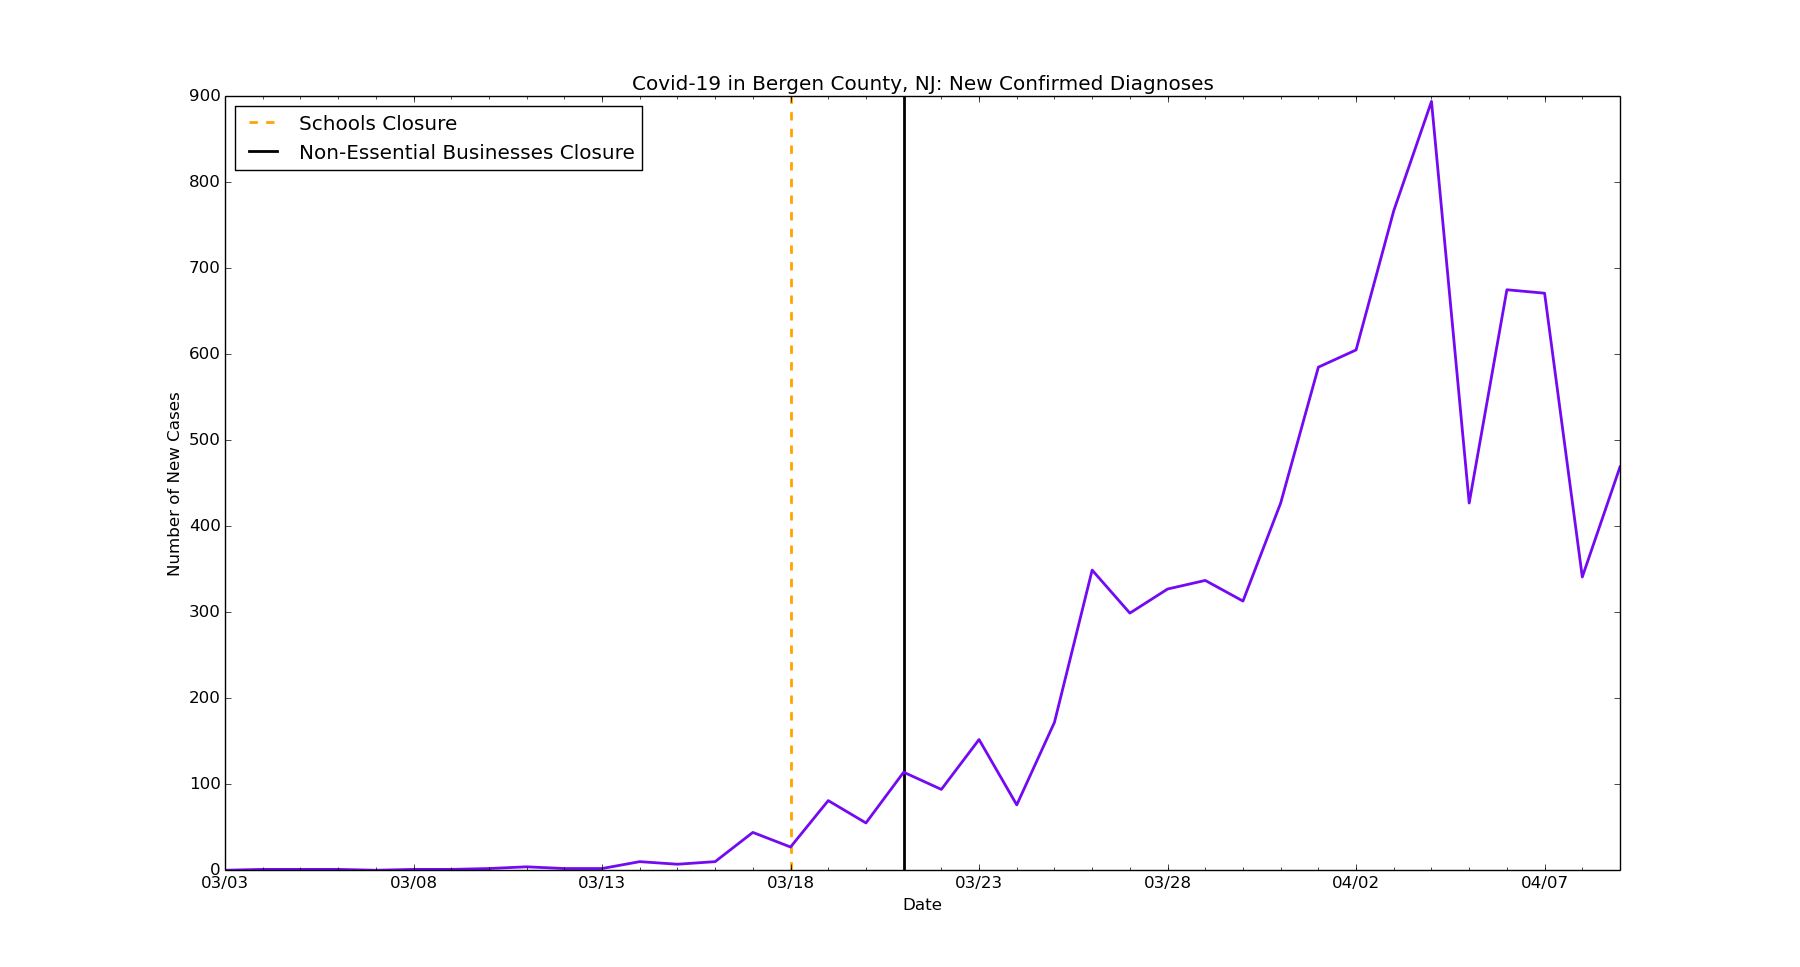
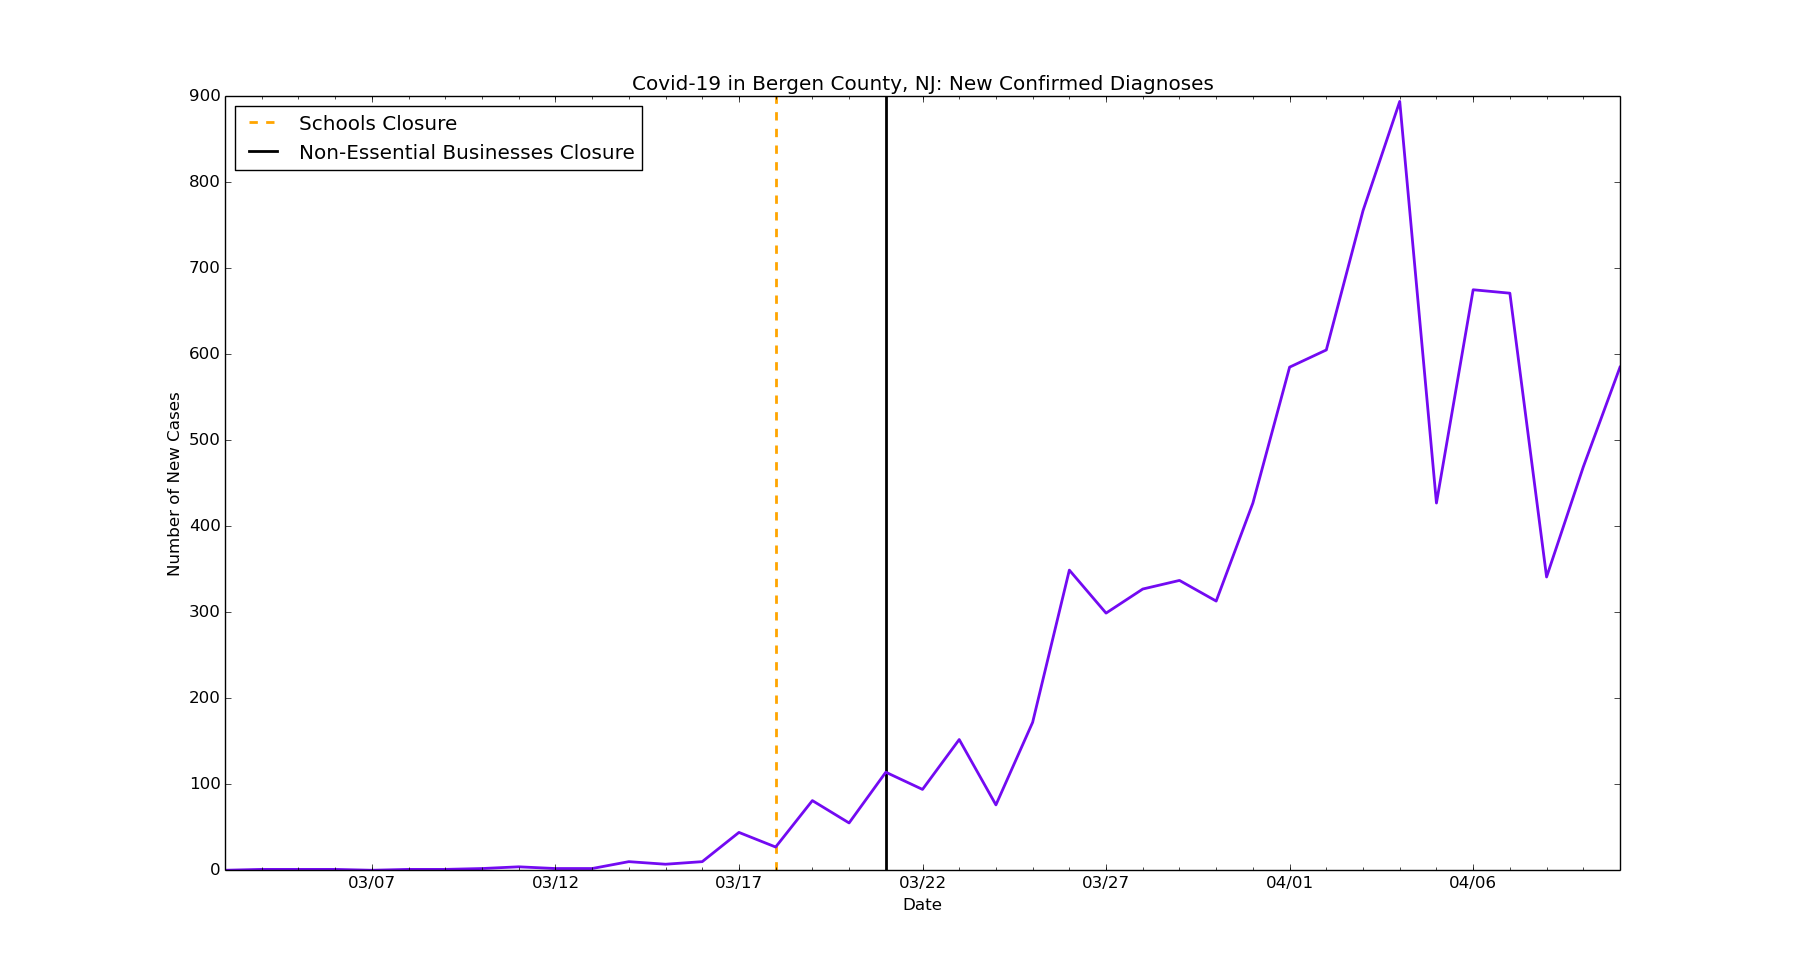
chore: Update Bergen County data for 4/10

diff --git a/bergen-county/bergen-new-cases.py b/bergen-county/bergen-new-cases.py
@@ -1,12 +1,10 @@
-# line graph of new cases in Bergen County, NJ
-
 import datetime as dt
 import matplotlib.pyplot as plt
 import matplotlib.dates as mdates
 import matplotlib.ticker as ticker
 from matplotlib.dates import MO, TU, WE, TH, FR, SA, SU
 
-dates = ['3/3/2020', '3/4/2020', '3/5/2020', '3/6/2020', '3/7/2020', '3/8/2020', '3/9/2020', '3/10/2020', '3/11/2020', '3/12/2020', '3/13/2020', '3/14/2020', '3/15/2020', '3/16/2020', '3/17/2020', '3/18/2020', '3/19/2020', '3/20/2020', '3/21/2020', '3/22/2020', '3/23/2020', '3/24/2020', '3/25/2020', '3/26/2020', '3/27/2020', '3/28/2020', '3/29/2020', '3/30/2020', '3/31/2020', '4/1/2020', '4/2/2020', '4/3/2020', '4/4/2020', '4/5/2020', '4/6/2020', '4/7/2020', '4/8/2020', '4/9/2020']
+dates = ['3/3/2020', '3/4/2020', '3/5/2020', '3/6/2020', '3/7/2020', '3/8/2020', '3/9/2020', '3/10/2020', '3/11/2020', '3/12/2020', '3/13/2020', '3/14/2020', '3/15/2020', '3/16/2020', '3/17/2020', '3/18/2020', '3/19/2020', '3/20/2020', '3/21/2020', '3/22/2020', '3/23/2020', '3/24/2020', '3/25/2020', '3/26/2020', '3/27/2020', '3/28/2020', '3/29/2020', '3/30/2020', '3/31/2020', '4/1/2020', '4/2/2020', '4/3/2020', '4/4/2020', '4/5/2020', '4/6/2020', '4/7/2020', '4/8/2020', '4/9/2020', '4/10/2020']
 
 # format dates
 x_values = [dt.datetime.strptime(d, "%m/%d/%Y").date() for d in dates]
@@ -15,7 +13,6 @@ formatter = mdates.DateFormatter("%m/%d")
 ax.xaxis.set_major_formatter(formatter)
 
 # create x-axis
-# major tick = every 3 days
 ax.xaxis.set_major_locator(mdates.WeekdayLocator(byweekday=(MO, TU, WE, TH, FR, SA, SU), interval=5))
 # minor tick = daily
 ax.xaxis.set_minor_locator(mdates.WeekdayLocator(byweekday=(MO, TU, WE, TH, FR, SA, SU)))
@@ -29,7 +26,7 @@ plt.axvline(dt.datetime(2020, 3, 18), linestyle='--', color='orange', linewidth=
 plt.axvline(dt.datetime(2020, 3, 21), color='black', linewidth=2, label='stay at home')
 
 # new cases by day
-new_cases = [0, 1, 1, 1, 0, 1, 1, 2, 4, 2, 2, 10, 7, 10, 44, 27, 81, 55, 114, 94, 152, 76, 172, 349, 299, 327, 337, 313, 427, 585, 605, 767, 894, 427, 675, 671, 341, 469]
+new_cases = [0, 1, 1, 1, 0, 1, 1, 2, 4, 2, 2, 10, 7, 10, 44, 27, 81, 55, 114, 94, 152, 76, 172, 349, 299, 327, 337, 313, 427, 585, 605, 767, 894, 427, 675, 671, 341, 469, 585]
 
 # text labels
 plt.title('Covid-19 in Bergen County, NJ: New Confirmed Diagnoses')

diff --git a/bergen-county/bergen-deaths-new.py b/bergen-county/bergen-deaths-new.py
@@ -1,12 +1,10 @@
-# line graph of new deaths in Bergen County, NJ
-
 import datetime
 import matplotlib.pyplot as plt
 import matplotlib.dates as mdates
 import matplotlib.ticker as ticker
 from matplotlib.dates import MO, TU, WE, TH, FR, SA, SU
 
-dates = ['3/9/2020', '3/10/2020', '3/11/2020', '3/12/2020', '3/13/2020', '3/14/2020', '3/15/2020', '3/16/2020', '3/17/2020', '3/18/2020', '3/19/2020', '3/20/2020', '3/21/2020', '3/22/2020', '3/23/2020', '3/24/2020', '3/25/2020', '3/26/2020', '3/27/2020', '3/28/2020', '3/29/2020', '3/30/2020', '3/31/2020', '4/1/2020', '4/2/2020', '4/3/2020', '4/4/2020', '4/5/2020', '4/6/2020', '4/7/2020', '4/8/2020', '4/9/2020']
+dates = ['3/9/2020', '3/10/2020', '3/11/2020', '3/12/2020', '3/13/2020', '3/14/2020', '3/15/2020', '3/16/2020', '3/17/2020', '3/18/2020', '3/19/2020', '3/20/2020', '3/21/2020', '3/22/2020', '3/23/2020', '3/24/2020', '3/25/2020', '3/26/2020', '3/27/2020', '3/28/2020', '3/29/2020', '3/30/2020', '3/31/2020', '4/1/2020', '4/2/2020', '4/3/2020', '4/4/2020', '4/5/2020', '4/6/2020', '4/7/2020', '4/8/2020', '4/9/2020', '4/10/2020']
 
 # format dates
 x_values = [datetime.datetime.strptime(d, "%m/%d/%Y").date() for d in dates]
@@ -15,7 +13,6 @@ formatter = mdates.DateFormatter("%m/%d")
 ax.xaxis.set_major_formatter(formatter)
 
 # create x-axis
-# major tick = every 3 days
 ax.xaxis.set_major_locator(mdates.WeekdayLocator(byweekday=(MO, TU, WE, TH, FR, SA, SU), interval=4))
 # minor tick = daily
 ax.xaxis.set_minor_locator(mdates.WeekdayLocator(byweekday=(MO, TU, WE, TH, FR, SA, SU)))
@@ -24,7 +21,7 @@ ax.xaxis.set_minor_locator(mdates.WeekdayLocator(byweekday=(MO, TU, WE, TH, FR, 
 ax.get_yaxis().set_major_formatter(ticker.FuncFormatter(lambda x, pos: format(int(x), ',')))
 
 # new deaths by day
-new_deaths = [0, 1, 0, 0, 0, 0, 1, 0, 0, 0, 1, 1, 2, 1, 0, 4, 4, 3, 7, 6, 10, 0, 13, 21, 45, 12, 47, 10, 11, 63, 51, 31]
+new_deaths = [0, 1, 0, 0, 0, 0, 1, 0, 0, 0, 1, 1, 2, 1, 0, 4, 4, 3, 7, 6, 10, 0, 13, 21, 45, 12, 47, 10, 11, 63, 51, 31, 45]
 
 # text labels
 plt.title('Covid-19 in Bergen County, NJ: New Fatalities')
